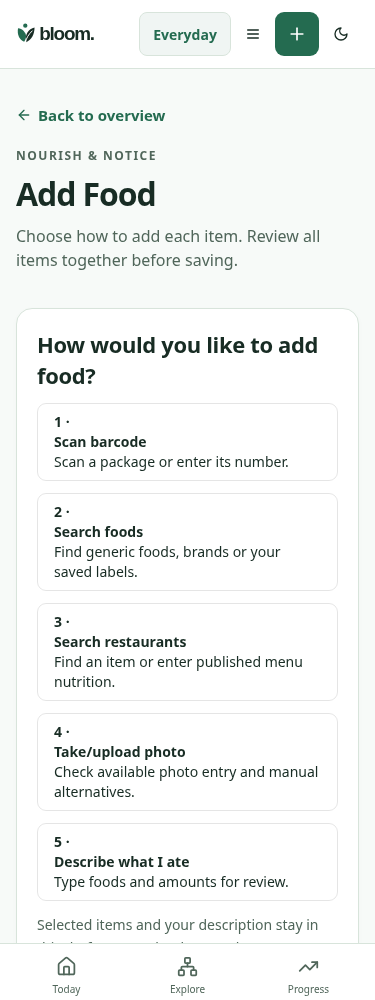
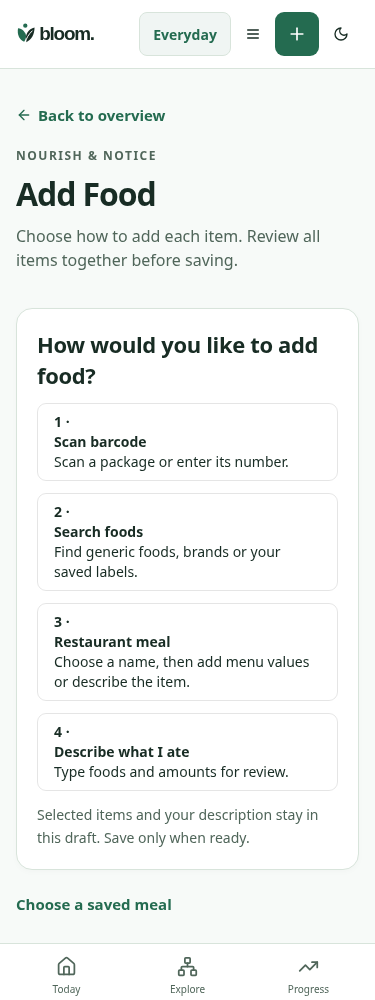
Hide unfinished public entry controls and preserve supported setup and privacy paths

diff --git a/client/src/pages/LogMeal.tsx b/client/src/pages/LogMeal.tsx
@@ -3,7 +3,7 @@ import RestaurantEntry from "@/components/RestaurantEntry";
 import FoodCapture from "@/components/FoodCapture";
 import { useExperience } from "@/lib/experience";
 import { energyAmount, foodMass } from "@shared/nutrition-display";
-import {foodEntryMethods,parseFoodEntryMethod,type FoodEntryMethod} from "@shared/food-entry";
+import {foodEntryMethods,availableFoodEntryMethods,parseAvailableFoodEntryMethod,type FoodEntryMethod} from "@shared/food-entry";
 import { SaveMealButton } from "@/components/SavedMeals";
 import ProductPicker from "@/components/ProductPicker";
 import { nutritionUpdateFeedback } from "@shared/nutrition-review";
@@ -67,18 +67,22 @@ export default function LogMeal() {
     Record<"bloating" | "energy" | "comfort" | "clarity", number | null>
   >({ bloating: null, energy: null, comfort: null, clarity: null });
   const [products, setProducts] = useState<Ingredient[]>([]);
-  const [method,setMethod]=useState<FoodEntryMethod|null>(parseFoodEntryMethod(params.get("method"))||(params.has("productQuery")?"search":params.has("description")||recipe||catalogueId?"describe":null));
+  const [method,setMethod]=useState<FoodEntryMethod|null>(parseAvailableFoodEntryMethod(params.get("method"))||(params.has("productQuery")?"search":params.has("description")||recipe||catalogueId?"describe":null));
+  const capabilities=useQuery<{foodEntry?:Partial<Record<FoodEntryMethod,boolean>>}>({queryKey:["/api/capabilities",user?.id],enabled:!!user,queryFn:async()=>(await apiRequest("GET","/api/capabilities")).json()});
+  const availableMethods=availableFoodEntryMethods(capabilities.data?.foodEntry);
   const [pickerVisited,setPickerVisited]=useState(params.has("productQuery")||["barcode","search","restaurant"].includes(params.get("method")||""));
   const [restaurant,setRestaurant]=useState(""),[market,setMarket]=useState("Canada"),[restaurantVisited,setRestaurantVisited]=useState(params.get("method")==="restaurant");
   const chooserHeading=useRef<HTMLHeadingElement>(null);
-  const changeMethod=(next:FoodEntryMethod|null)=>{
+  const changeMethod=(requested:FoodEntryMethod|null)=>{
+    const next=requested&&availableMethods.some(m=>m.id===requested)?requested:null;
     if(next==="restaurant")setRestaurantVisited(true);
     if(next&&["barcode","search","restaurant"].includes(next))setPickerVisited(true);
     const url=new URL(window.location.href);if(next)url.searchParams.set("method",next);else url.searchParams.delete("method");
     window.history.pushState(null,"",url.pathname+url.search);setMethod(next);
     requestAnimationFrame(()=>chooserHeading.current?.focus());
   };
-  useEffect(()=>{const back=()=>{const next=parseFoodEntryMethod(new URLSearchParams(window.location.search).get("method"));setMethod(next);if(next&&["barcode","search","restaurant"].includes(next))setPickerVisited(true);};window.addEventListener("popstate",back);return()=>window.removeEventListener("popstate",back);},[]);
+  useEffect(()=>{const back=()=>{const next=parseAvailableFoodEntryMethod(new URLSearchParams(window.location.search).get("method"));setMethod(next);if(next&&["barcode","search","restaurant"].includes(next))setPickerVisited(true);};window.addEventListener("popstate",back);return()=>window.removeEventListener("popstate",back);},[]);
+  useEffect(()=>{const url=new URL(window.location.href);if(url.searchParams.get("method")==="photo"){url.searchParams.delete("method");window.history.replaceState(null,"",url.pathname+url.search);setMethod(null);requestAnimationFrame(()=>chooserHeading.current?.focus());}},[]);
   const recentMeals=useQuery<Meal[]>({queryKey:["/api/meals",user?.id],enabled:!!user&&method==="restaurant"});
   const recentRestaurants=(recentMeals.data||[]).flatMap(meal=>{const context=(meal.mealContext as any)?.restaurantContext;return typeof context?.restaurant==="string"&&typeof context?.market==="string"?[{restaurant:context.restaurant,market:context.market}]:[];});
   const pickerActive=method==="barcode"||method==="search"||method==="restaurant";
@@ -171,11 +175,11 @@ export default function LogMeal() {
       <section className="bloom-panel space-y-3">
         <h2 ref={chooserHeading} tabIndex={-1}>{method?foodEntryMethods.find(m=>m.id===method)?.label:"How would you like to add food?"}</h2>
         {method&&<Button type="button" variant="outline" onClick={()=>changeMethod(null)}>Change method / add another item</Button>}
-        {!method&&<div className="grid gap-3 sm:grid-cols-2">{foodEntryMethods.map(m=><Button className="h-auto whitespace-normal text-left block" type="button" variant="outline" key={m.id} onClick={()=>{setSavedMeal(null);changeMethod(m.id);}}><strong className="block">{m.label}</strong><span className="block text-sm font-normal">{m.description}</span></Button>)}</div>}
+        {!method&&<div className="grid gap-3 sm:grid-cols-2">{availableMethods.map(m=><Button className="h-auto whitespace-normal text-left block" type="button" variant="outline" key={m.id} onClick={()=>{setSavedMeal(null);changeMethod(m.id);}}><strong className="block">{m.label}</strong><span className="block text-sm font-normal">{m.description}</span></Button>)}</div>}
         <p className="panel-note">Selected items and your description stay in this draft. Save only when ready.</p>
         {method==="describe"&&<div className="space-y-3"><p>Type foods and amounts in the shared meal review below. Selected products are counted separately.</p><FoodCapture voiceOnly onDescription={text=>setDescription(current=>[current,text].filter(Boolean).join("; "))} onProduct={()=>{}}/></div>}
-        <div hidden={method!=="restaurant"} className="space-y-3"><RestaurantEntry recent={recentRestaurants} name={restaurant} region={market} onName={setRestaurant} onRegion={setMarket}/><p className="panel-note">No official menu catalogue is connected. Check source and country; generic matches are estimates.</p><Button type="button" variant="outline" onClick={()=>changeMethod("describe")}>Describe restaurant meal instead</Button><details><summary>Why?</summary><p>Common brands and saved restaurant names do not verify menu nutrition, availability or allergens. Enter values from the menu as a private label or use a description; missing values stay unknown.</p></details></div>
-        {method==="photo"&&<div role="status" className="space-y-3"><p>Automatic photo interpretation is unavailable. No image is requested or sent. Enter a label or describe your food.</p><Button type="button" variant="outline" onClick={()=>changeMethod("search")}>Enter package nutrition instead</Button><Button type="button" variant="outline" onClick={()=>changeMethod("describe")}>Describe food instead</Button></div>}
+        <div hidden={method!=="restaurant"} className="space-y-3"><RestaurantEntry recent={recentRestaurants} name={restaurant} region={market} onName={setRestaurant} onRegion={setMarket}/><p className="panel-note">Use published menu values or describe the item. Generic matches are estimates.</p><Button type="button" variant="outline" onClick={()=>changeMethod("describe")}>Describe restaurant meal instead</Button><details><summary>Why?</summary><p>Common brands and saved restaurant names do not verify menu nutrition, availability or allergens. Enter values from the menu as a private label or use a description; missing values stay unknown.</p></details></div>
+
         {products.length>=10&&<p role="alert">This meal supports up to 10 labelled products. Save the meal or remove one before adding another.</p>}
         {pickerVisited&&<div hidden={!pickerActive}><ProductPicker active={pickerActive} showBarcode={method==="barcode"} pending={products.length>=10} onPick={i=>{setProducts(v=>v.length>=10?v:[...v,i]);changeMethod(null);}} initialQuery={productQuery||description.slice(0,120)} autoSearch={!!productQuery}/></div>}
       </section>

diff --git a/client/src/components/RestaurantEntry.tsx b/client/src/components/RestaurantEntry.tsx
@@ -1,6 +1,6 @@
-import {useId,useState} from 'react';import {Button} from '@/components/ui/button';import {restaurantSuggestions,restaurantRegions} from '@shared/restaurant-entry';
+import {useId,useState} from 'react';import {restaurantSuggestions,restaurantRegions} from '@shared/restaurant-entry';
 export default function RestaurantEntry({name,region,onName,onRegion,recent=[]}:{name:string;region:string;onName:(value:string)=>void;onRegion:(value:string)=>void;recent?:{restaurant:string;market:string}[]}){
- const id=useId(),[open,setOpen]=useState(false),[active,setActive]=useState(-1),[notice,setNotice]=useState('');const options=restaurantSuggestions(name,region,recent);
+ const id=useId(),[open,setOpen]=useState(false),[active,setActive]=useState(-1);const options=restaurantSuggestions(name,region,recent);
  const choose=(value:string)=>{onName(value);setOpen(false);setActive(-1);};
- return <div className="space-y-3"><p className="panel-note">Common brands and recent restaurants — not nearby branches.</p><div className="relative"><label htmlFor={id}>Restaurant (search or enter)</label><input id={id} role="combobox" aria-autocomplete="list" aria-expanded={open} aria-controls={open?`${id}-options`:undefined} aria-activedescendant={open&&active>=0&&active<options.length?`${id}-option-${active}`:undefined} className="bloom-input w-full" maxLength={150} value={name} onChange={e=>{onName(e.target.value);setOpen(true);setActive(-1);}} onFocus={()=>setOpen(true)} onBlur={()=>setOpen(false)} onKeyDown={e=>{if(e.key==='Escape'){setOpen(false);setActive(-1);}else if(e.key==='ArrowDown'||e.key==='ArrowUp'){e.preventDefault();setOpen(true);setActive(index=>options.length?(index<0?(e.key==='ArrowDown'?0:options.length-1):(index+(e.key==='ArrowDown'?1:-1)+options.length)%options.length):-1);}else if(e.key==='Enter'&&open&&active>=0&&options[active]){e.preventDefault();choose(options[active].name);}}}/>{open&&<ul role="listbox" id={`${id}-options`} className="bloom-panel p-2 space-y-1">{options.map((option,index)=><li key={option.name} id={`${id}-option-${index}`} role="option" aria-selected={active===index} className="p-2 cursor-pointer rounded focus:outline" onMouseDown={e=>e.preventDefault()} onClick={()=>choose(option.name)}>{option.name}<span className="block text-xs">{option.kind}</span></li>)}{!options.length&&<li role="presentation" className="panel-note">No common brand match. You can keep this name and describe the item or enter menu nutrition.</li>}</ul>}</div><label className="block">Change region<select className="bloom-input w-full" value={region} onChange={e=>{onRegion(e.target.value);setActive(-1);}}>{restaurantRegions.map(value=><option key={value}>{value}</option>)}</select></label><p className="panel-note">Browsing region is not a detected location. Canada is the default; match the country on your menu.</p><Button type="button" variant="outline" onClick={()=>setNotice('Nearby is unavailable; no places source is connected. No location was requested. Search a restaurant name instead.')}>Nearby</Button>{notice&&<p role="status" className="panel-note">{notice}</p>}</div>;
+ return <div className="space-y-3"><p className="panel-note">Common brands and recent restaurants — not nearby branches.</p><div className="relative"><label htmlFor={id}>Restaurant (search or enter)</label><input id={id} role="combobox" aria-autocomplete="list" aria-expanded={open} aria-controls={open?`${id}-options`:undefined} aria-activedescendant={open&&active>=0&&active<options.length?`${id}-option-${active}`:undefined} className="bloom-input w-full" maxLength={150} value={name} onChange={e=>{onName(e.target.value);setOpen(true);setActive(-1);}} onFocus={()=>setOpen(true)} onBlur={()=>setOpen(false)} onKeyDown={e=>{if(e.key==='Escape'){setOpen(false);setActive(-1);}else if(e.key==='ArrowDown'||e.key==='ArrowUp'){e.preventDefault();setOpen(true);setActive(index=>options.length?(index<0?(e.key==='ArrowDown'?0:options.length-1):(index+(e.key==='ArrowDown'?1:-1)+options.length)%options.length):-1);}else if(e.key==='Enter'&&open&&active>=0&&options[active]){e.preventDefault();choose(options[active].name);}}}/>{open&&<ul role="listbox" id={`${id}-options`} className="bloom-panel p-2 space-y-1">{options.map((option,index)=><li key={option.name} id={`${id}-option-${index}`} role="option" aria-selected={active===index} className="p-2 cursor-pointer rounded focus:outline" onMouseDown={e=>e.preventDefault()} onClick={()=>choose(option.name)}>{option.name}<span className="block text-xs">{option.kind}</span></li>)}{!options.length&&<li role="presentation" className="panel-note">No common brand match. You can keep this name and describe the item or enter menu nutrition.</li>}</ul>}</div><label className="block">Change region<select className="bloom-input w-full" value={region} onChange={e=>{onRegion(e.target.value);setActive(-1);}}>{restaurantRegions.map(value=><option key={value}>{value}</option>)}</select></label><p className="panel-note">Browsing region is not a detected location. Canada is the default; match the country on your menu.</p></div>;
 }

diff --git a/client/src/components/ExperienceDataControls.tsx b/client/src/components/ExperienceDataControls.tsx
@@ -1,24 +1,21 @@
 import { useState } from "react";
-import { useMutation, useQuery, useQueryClient } from "@tanstack/react-query";
+import { useMutation, useQueryClient } from "@tanstack/react-query";
 import { useLocation } from "wouter";
 import { Button } from "@/components/ui/button";
 import { apiRequest } from "@/lib/queryClient";
-import { useAuth } from "@/lib/auth";
 import { refreshExperience } from "@/lib/experience";
 import { WorkspaceExport } from "./WeeklyReview";
 function HealthSourceControls(){
- const {user}=useAuth();
  const [confirmation,setConfirmation]=useState("");
  const [deleteText,setDeleteText]=useState("");
  const queryClient=useQueryClient();
- const status=useQuery<{connections:Array<{provider:string;state:string;note:string}>}>({queryKey:["/api/health-sources",user?.id],enabled:!!user,queryFn:async()=>{const r=await fetch("/api/health-sources",{credentials:"include"});if(!r.ok)throw Error("Health source status unavailable");return r.json();}});
+
  const remove=useMutation({mutationFn:async(provider:string)=>{
  const all=provider==="all";
  const r=await fetch(all?"/api/health-sources":"/api/health-sources/"+provider,{method:"DELETE",credentials:"include",headers:{"x-bloom-confirm":all?"delete-all-health-sources":"delete-health-source"}});
  if(!r.ok)throw Error("Health-source deletion failed");
  },onSuccess:()=>{setConfirmation("");setDeleteText("");queryClient.invalidateQueries({queryKey:["/api/health-sources"]});queryClient.invalidateQueries({queryKey:["device-observations"]});}});
- return <details><summary>External health data and device connections</summary><p className="panel-note">Apple Health and Android Health Connect are not connected. Bloom cannot access device data through this browser. The records below are private and are not proof of an active connection.</p>
- {status.isLoading?<p>Checking device connection status…</p>:status.error?<p role="alert">Connection status unavailable.</p>:<ul>{status.data?.connections.map(c=><li key={c.provider}><strong>{c.provider==="apple_health"?"Apple Health":"Health Connect"}</strong> — Not connected</li>)}</ul>}
+ return <details><summary>Stored health-source records</summary><p className="panel-note">Export or remove records stored in Bloom. These actions do not connect a device or change provider permissions.</p>
  <p><a href="/api/health-sources/export" download="bloom-health-observations.json">Export stored health source data (JSON)</a></p>
  <label className="block">Delete data for a provider<select className="bloom-input w-full" value={confirmation} onChange={e=>setConfirmation(e.target.value)}><option value="">Select a source</option><option value="apple_health">Apple Health</option><option value="health_connect">Health Connect</option><option value="all">All device source data</option></select></label>
  <label className="block">Type DELETE SOURCE to confirm permanent removal of stored source records<input className="bloom-input w-full" autoComplete="off" value={deleteText} onChange={e=>setDeleteText(e.target.value)}/></label>

diff --git a/server/capability-access.ts b/server/capability-access.ts
@@ -1,3 +1,4 @@
+import {foodEntryImplementationReady} from "../shared/food-entry";
 import {createHash} from "node:crypto";
 import {z} from "zod";
 import {eq} from "drizzle-orm";
@@ -21,7 +22,7 @@ export class CapabilityPreferenceStorage implements CapabilityPreferenceStore {
 }
 export function registerCapabilityAccess(app:Express,auth:RequestHandler,store:CapabilityPreferenceStore,grantFor:(userId:string)=>ReturnType<typeof internalPreviewGrant>=internalPreviewGrant){
  app.use('/api/capabilities',auth,(_req,res,next)=>{res.setHeader('Cache-Control','no-store');next();});
- app.get('/api/capabilities',async(req,res)=>{try{const id=req.session.userId!,grant=grantFor(id);const pref=grant?await store.get(id):null;res.json({version:capabilityPolicyVersion,eligible:!!grant,experimentalEnabled:!!grant&&!!pref?.enabled&&pref.grantFingerprint===grant.fingerprint,capabilities:[],note:'Internal synthetic preview only. This setting does not grant clinical, research, provider, territory or licensing approval. Restricted services remain unavailable until individually cleared.'});}catch{res.status(503).json({error:'Experimental eligibility could not be checked.'});}});
+ app.get('/api/capabilities',async(req,res)=>{try{const id=req.session.userId!,grant=grantFor(id);const pref=grant?await store.get(id):null;res.json({version:capabilityPolicyVersion,foodEntry:foodEntryImplementationReady,eligible:!!grant,experimentalEnabled:!!grant&&!!pref?.enabled&&pref.grantFingerprint===grant.fingerprint,capabilities:[],note:'Internal synthetic preview only. This setting does not grant clinical, research, provider, territory or licensing approval. Restricted services remain unavailable until individually cleared.'});}catch{res.status(503).json({error:'Experimental eligibility could not be checked.'});}});
  app.patch('/api/capabilities/experimental',async(req,res)=>{
   const parsed=z.object({enabled:z.boolean()}).strict().safeParse(req.body);if(!parsed.success)return void res.status(400).json({error:'Choose an experimental preference only.'});
   const id=req.session.userId!,grant=grantFor(id);if(!grant)return void res.status(403).json({error:'Internal preview access is not available for this account.'});

diff --git a/tests/food-entry.test.ts b/tests/food-entry.test.ts
@@ -1,5 +1,5 @@
 import test from 'node:test';import assert from 'node:assert/strict';import express from 'express';
-import {foodEntryMethods,parseFoodEntryMethod} from '../shared/food-entry';import {mealContextSchema} from '../shared/meal-intelligence';
+import {foodEntryMethods,parseFoodEntryMethod,availableFoodEntryMethods,parseAvailableFoodEntryMethod} from '../shared/food-entry';import {mealContextSchema} from '../shared/meal-intelligence';
 import {capabilityApproval,restrictedCapabilityAllowed,requireRestrictedCapability} from '../server/capability-policy';
 test('five food methods share strict route identifiers and retain optional user-entered restaurant context',()=>{
  assert.equal(foodEntryMethods.length,5);assert.equal(new Set(foodEntryMethods.map(m=>m.id)).size,5);
@@ -14,3 +14,5 @@ test('direct restricted API access rejects client-forged tester flags before exe
  const app=express();let calls=0;app.use(express.json());app.post('/photo',requireRestrictedCapability('bloom.food.photo_ai'),(_req,res)=>{calls++;res.json({});});
  const server=app.listen(0,'127.0.0.1');await new Promise<void>(r=>server.on('listening',r));try{const response=await fetch('http://127.0.0.1:'+(server.address() as any).port+'/photo',{method:'POST',headers:{'content-type':'application/json','x-internal-tester':'true'},body:JSON.stringify({experimental:true,consent:true,approved:true})});assert.equal(response.status,403);assert.equal((await response.json()).code,'CAPABILITY_UNAVAILABLE');assert.equal(calls,0);}finally{server.closeAllConnections();await new Promise<void>(r=>server.close(()=>r()));}
 });
+
+test('unfinished photo workflow is absent even with a forged ready flag and direct route falls back safely',()=>{assert.equal(availableFoodEntryMethods().length,4);assert.equal(availableFoodEntryMethods({photo:true}).some(method=>method.id==='photo'),false);assert.equal(parseAvailableFoodEntryMethod('photo'),null);assert.equal(parseAvailableFoodEntryMethod('barcode'),'barcode');assert.equal(availableFoodEntryMethods({search:false}).some(method=>method.id==='search'),false);});

diff --git a/shared/food-entry.ts b/shared/food-entry.ts
@@ -1,9 +1,14 @@
 export const foodEntryMethods=[
   {id:"barcode",label:"Scan barcode",description:"Scan a package or enter its number."},
   {id:"search",label:"Search foods",description:"Find generic foods, brands or your saved labels."},
-  {id:"restaurant",label:"Search restaurants",description:"Find an item or enter published menu nutrition."},
+  {id:"restaurant",label:"Restaurant meal",description:"Choose a name, then add menu values or describe the item."},
   {id:"photo",label:"Take/upload photo",description:"Check available photo entry and manual alternatives."},
   {id:"describe",label:"Describe what I ate",description:"Type foods and amounts for review."},
 ] as const;
 export type FoodEntryMethod=typeof foodEntryMethods[number]["id"];
 export function parseFoodEntryMethod(value:string|null):FoodEntryMethod|null{return foodEntryMethods.some(m=>m.id===value)?value as FoodEntryMethod:null;}
+
+/** Shipped implementation readiness; a role flag cannot create an unfinished workflow. */
+export const foodEntryImplementationReady:Readonly<Record<FoodEntryMethod,boolean>>={barcode:true,search:true,restaurant:true,photo:false,describe:true};
+export function availableFoodEntryMethods(server?:Partial<Record<FoodEntryMethod,boolean>>){return foodEntryMethods.filter(method=>foodEntryImplementationReady[method.id]&&(server?.[method.id]??true));}
+export function parseAvailableFoodEntryMethod(value:string|null,server?:Partial<Record<FoodEntryMethod,boolean>>):FoodEntryMethod|null {return availableFoodEntryMethods(server).some(method=>method.id===value)?value as FoodEntryMethod:null;}

diff --git a/NEXT_ACTIONS.md b/NEXT_ACTIONS.md
@@ -4,7 +4,7 @@
 2. Last published code is `80c3aad`, plus Architect-only 2f1ea40; CI 40074216938 passed on that descendant. Verify current exact head/deployment before continuing. Workspace `tea-db9toijrjlhs73850cp0`, existing service `srv-db9u7mjbc2fs73d86uv0`. Pass workspaceId on connector calls. No replacement service or main merge.
 3. Execution recovered after the review's stated reset time at 06:45 UTC. Normal approval succeeded. Do not treat the historical usage failure as an ongoing product blocker.
 4. FOOD-506 was published as `b5dce7c05e493ed6c2185dbba96f3a83990be211`: 204 tests/build/types, save/totals browser regression and production advisory check passed. CI 40071570397 succeeded; Render `dep-dbe58q6i0phs73bnvfr0` is live.
-5. Current local slice FOOD-508 adds common-brand/recent restaurant combobox and explicit region/Nearby fallback, plus task-first concise copy. 215 full tests/types/build and keyboard/market/no-location/canonical-save browser checks passed. Publish after preserving the fetched 2f1ea40 copy handoff. The lab encryption test fix removes random-ciphertext substring flakiness and instead verifies envelope/decryption/AAD rejection. After exact-SHA CI/Render verification, continue full capability exposure inventory and economics/recovery tasks; the overall goal is incomplete.
+5. Current publication batch combines FOOD-508 restaurant refinement with FOOD-509 readiness supersession from 7af47d5. 216 tests/types/build and browser checks passed. Verify exact head/CI/Render after push; never claim all v0.5 complete. The current UI has four working choices; unfinished photo/Nearby and connection placeholders are hidden, server photo/flux gates remain denied, direct photo route preserves permitted text. Historical five-way screenshots/notes document earlier design and are explicitly superseded.
 6. Browser environment: `BLOOM_PLAYWRIGHT_MODULE=/opt/codex/cua_node/lib/node_modules/playwright`, `BLOOM_CHROMIUM_EXECUTABLE=/usr/bin/chromium`. Use `node --import tsx scripts/qa/add-food-journey.mjs` (localhost:5194) and `scripts/qa/branded-food-journey.mjs` (localhost:5187). Fixtures do not establish hosted/native/independent acceptance. Do not run concurrently because shared Vite dependency caches can conflict.
 7. Stage only reviewed source/tests and curated docs/review artifacts, update the four root records, commit and push. Preserve concurrent Architect changes with fetch/inspect/rebase of unpublished commits only. Auto-deploy is configured; no manual deploy after push.
 8. Verify exact-SHA CI and existing Render live deployment/logs. Keep advisory/security/persistence gates intact. Record evidence and continue to the next task immediately.

diff --git a/docs/architecture/V05_IMPLEMENTATION_STATUS.md b/docs/architecture/V05_IMPLEMENTATION_STATUS.md
@@ -168,3 +168,9 @@ The existing USDA cache-miss allowance now also uses the PostgreSQL shared limit
 Restaurant input now offers common brands plus same-market recent restaurant context from the authenticated journal, keyboard selection and explicit Change region. Canada is a disclosed browsing default, not detected location. Nearby is a truthful unavailable state with no location request or invented place. No city/name field is mandatory; custom names and existing manual label/description flow remain. No menus/nutrients are inferred from a brand or region. Detailed background moves behind Why?, with source uncertainty still visible and the task first.
 
 215 tests, types/build and the synthetic mixed-method save journey passed, including few-character McDonald's keyboard selection, Canada/US filtering, no geolocation, saved context and 320–1440px reflow. [Targeted fixtures](../review/restaurant-entry-20261024/README.md). Full regression exposed a randomized lab-ciphertext substring assertion; it now checks envelope shape, correct-account original-value decryption and wrong-account rejection, strengthening the meaningful security guarantee. Saved market preference integration (none defined currently), live place/menu coverage, provider rights and independent device/VoiceOver acceptance remain open. No credentials or production data changed.
+
+## Public implementation readiness — superseding owner directive
+
+Applied 7af47d5: the design catalogue may define five input methods, but ordinary users now see only the four working implementations. Unfinished photo interpretation is absent, not a disabled/dead tile or development-status message; direct photo navigation returns to the permitted chooser without losing typed food. Source server manifest exposes shipped readiness, while implementation readiness and the existing server photo gate both prevent client flags from enabling unfinished code. Nearby controls are absent without a working places source. Restaurant entry is labeled for its genuinely working name/manual-value/description flow. Profile no longer fetches/displays unfinished device-connection status tiles; actual stored-record privacy operations remain available. No core logging permission or source was disabled.
+
+216 tests, types/build and updated browser checks passed, including hidden controls, safe direct-route recovery, no image/location calls, country-specific keyboard suggestions and canonical meal/context saving. This covers the touched food/privacy surfaces, not the complete 52-feature exposure inventory or all integration setup paths. Independent hosted/device/screen-reader acceptance and broader capability/copy audit remain open.

diff --git a/BACKLOG.md b/BACKLOG.md
@@ -15,6 +15,7 @@ This execution ledger follows the owner's overnight directive. Scope and priorit
 | OPS-702 | P0 | Shared per-user/capability limits, atomic AI spend reservations and recovery verification | OPEN | Existing shared rate budgets remain. New daily/monthly money metering and recovery acceptance are not claimed. No invented tariffs or paid services. |
 | FOOD-508 / INT-REST / UT-REST / MKT-REST | P0 | Common-brand/recent restaurant combobox and explicit region/locality fallbacks | IMPLEMENTED_AND_TESTED; publication pending | 215 tests/types/build; keyboard McDonald's selection, market separation, no GPS requests and canonical context/save browser regression passed. Actual menu/places sources remain externally gated. |
 | COPY-1301 / UT-COPY / MKT-COPY / MKT-LAYOUT | P0 | Task-first concise copy and rendered layout audit | IN_PROGRESS | Applied to active Add Food/restaurant surface with screenshots and overflow checks. Whole-app sweep remains actionable; do not claim source suspicions are proven layout defects. |
+| FOOD-509 / 7af47d5 / MKT-REG-1210–1213 | P0 | Hide unfinished public food and connection placeholders; preserve real manual operations | IMPLEMENTED_AND_TESTED; publication pending | 216 tests/types/build and direct-photo-link/draft/hidden-control/browser regression. Four working chooser methods; no image/GPS calls. Broader capability inventory remains OPEN. |
 | PRIV-101 | P0 | Combined account-record export | VERIFIED_PREVIEW | `40147fb`; CI 40057861646 passed, Render live. Read-only account snapshot; explicit optional-storage state; no passwords/session material/internal paths. |
 | PRIV-102 | P0 | Password-confirmed active account erasure and stored-session revocation | VERIFIED_PREVIEW; specialist review pending | `9f83028`; 203 Node tests, types/build and synthetic browser passed. CI 40059692748 passed including real isolated-Neon erasure and second-account checks. Render `dep-dbe2k8ks728c738aphcg` live. |
 | PRIV-103 | P0 | Backup retention, erasure propagation through restore, operational-log and vendor lifecycle | OPEN | Audit existing provider/configuration and approved retention requirements first. Implement/test with isolated synthetic data; actual destructive backup operations require separate authorization. No claim of full backup/vendor erasure. |

diff --git a/DEVELOPMENT_LOG.md b/DEVELOPMENT_LOG.md
@@ -50,3 +50,7 @@ OPS-702-USDA moves the existing source miss allowance into shared PostgreSQL bud
 ### OPS-702-USDA published; FOOD-508 verified locally
 
 Published source budget as 80c3aad. Architect-only descendant 2f1ea40 includes the new concise-copy handoff; CI 40074216938 passed. Restaurant combobox now lists common brands/recent journal names within explicit region, with keyboard behavior and no fictitious nearby/menu data. Nearby makes no location call; source limitations remain visible while methodology is disclosed. 215 tests/types/build and mixed-method browser passed. Full-suite failure revealed chance occurrence of LDL in random ciphertext; replaced substring rejection with envelope validation, authenticated round trip and wrong-account rejection. No security gate relaxed. Next: publish/verify FOOD-508, then continue full capability exposure inventory, economics/recovery and app-wide evidenced polish. Independent actionable development remains.
+
+### Restaurant and public-readiness supersession
+
+Preserved 7af47d5 after push rejection. It supersedes always-five visible routes: unfinished photo/company-level Nearby must not be ordinary-user tiles or development messages. Working restaurant manual entry remains, with concise name/region/common/recent controls. Photo deep link returns to chooser without losing text; server denial remains. Profile's unfinished connection-status tiles/data load removed while stored-record export/deletion remains. 216 tests/types/build and updated browser journey passed. Restaurant commit was kept locally and combined with this superseding refinement before publication. No credentials or production data changed. Remaining independent engineering includes full capability exposure audit, AI monetary controls and recovery inventory/verification.

diff --git a/docs/review/add-food-20261024/README.md b/docs/review/add-food-20261024/README.md
@@ -5,3 +5,5 @@ The initial Add Food chooser replaces stacked entry controls with five focused m
 Actual previous screen: `before-mobile.png` from baseline 75a598b. Current: `chooser-mobile.png`; `chooser-mobile-annotated.png` marks the five method choices. Same 375×1000/light synthetic account. `shared-review-mobile.png` shows retained mixed-method review. Unmarked originals retained. Existing Bloom components/tokens are used; shared-Library kit adoption is not claimed.
 
 207 tests, types and production build passed. `results.json` records synthetic denied-camera, five-choice, cross-method draft, source product + typed item save, descriptive restaurant context, no-photo-transfer and 320–1440px checks. These are not real-device scanning, live restaurant catalogue, photo accuracy or independent screen-reader acceptance. CI additionally verifies restaurant context survives actual database reread. Capability policy coverage beyond the photo/flux guards remains open.
+
+Latest owner readiness directive (7af47d5) supersedes the earlier always-five display. Current screenshots/results show four genuinely working routes. Unfinished photo interpretation is not mounted or advertised; its deep link returns to the chooser while preserving permitted text, and the API remains denied. Restaurant entry is a working name/manual-menu/description flow, not a connected official menu catalogue. Unimplemented Nearby controls are absent. Current verification is 216 tests/build plus the updated browser journey. Prior five-method wording above records the earlier milestone, not the current visibility policy.

diff --git a/docs/review/restaurant-entry-20261024/README.md b/docs/review/restaurant-entry-20261024/README.md
@@ -5,3 +5,5 @@ The restaurant method now uses an accessible keyboard combobox: common brand nam
 The two mobile captures are synthetic common-brand and unavailable-nearby states, not live menu/place acceptance. The mixed-method browser test verifies few-character McDonald's selection, Canada/US filtering, no location calls, canonical context save and 320–1440px reflow. Pure tests cover recent-name deduplication and market isolation. Detailed limits move to Why?; actual source uncertainty remains visible.
 
 215 full tests, types and production build passed. A flaky lab test was corrected: random base64 can contain short plaintext-like substrings; encryption is now tested by allowed envelope fields, original value round trip and wrong-account authentication rejection. No encryption protection or CI gate was weakened. Live restaurant data, saved country-preference integration where absent, device/VoiceOver and independent acceptance remain separate.
+
+Current readiness update: unfinished Nearby and photo controls are hidden rather than offered as dead ends. `common-brand-mobile.png` reflects the current working restaurant entry; `nearby-unavailable-mobile.png` is historical evidence of the superseded design and is not current acceptance. Current copy leads with the task and offers published-value/description entry without company setup or approval jargon. 216 tests/build and the updated browser journey passed.
